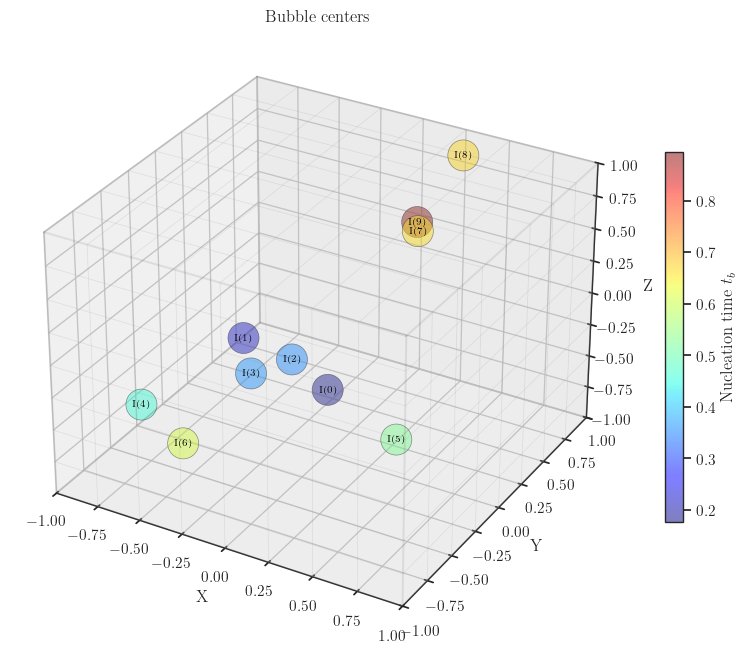
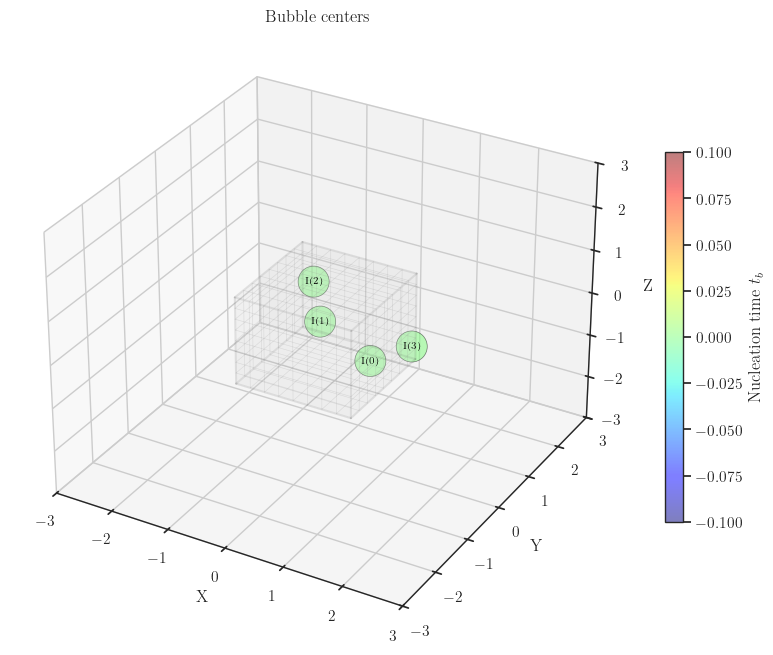
docs: update lattice_bubbles

diff --git a/docs/examples/lattice_bubbles.py b/docs/examples/lattice_bubbles.py
@@ -704,18 +704,10 @@ class LatticeBubblesVisualizer:
 
 
 # %%
-# Load bubbles from file, and only take the first 10 bubbles for visualization purpose
-bubbles_interior = bubbles_interior[:10]
-
 L = 2.0
-nucleation_strategy = many_bubbles.FixedNucleationRate(
-    beta=1,
-    gamma0=1,
-    t0=0.0,
-    d_p0=0.01,
+nucleation_strategy = many_bubbles.SpontaneousNucleation(
+    n_bubbles=4,
     seed=0,
-    # Method to compute lattice volume that is outside of all bubbles. "approximation" means that volume_remaining = volume_lattice - sum_n(volume_bubble_n)
-    method="approximation",
 )
 lattice_bubbles_cartesian = nucleation_strategy.nucleate(
     lattice=many_bubbles.CartesianLattice(
@@ -724,9 +716,6 @@ lattice_bubbles_cartesian = nucleation_strategy.nucleate(
     ),
     boundary_condition="periodic",
 )
-
-# %%
-lattice_bubbles_cartesian.bubbles_interior.shape
 
 # %%
 # Assuming you have a lattice_bubbles object
@@ -752,6 +741,9 @@ visualizer_cartesian.plot_bubbles_centers(
 visualizer_cartesian.plot_lattice(
     fig, ax, skeleton_alpha=0.1, fill_alpha=0.1, show_grid=True
 )
+ax.set_xlim(-1.5 * L, 1.5 * L)
+ax.set_ylim(-1.5 * L, 1.5 * L)
+ax.set_zlim(-1.5 * L, 1.5 * L)
 fig.savefig(
     f"./figures/many_bubbles/many_bubbles_centers_cartesian.png",
     bbox_inches="tight",
@@ -776,9 +768,9 @@ visualizer_cartesian.plot_bubbles_centers(
     linewidths=0.5,
 )
 visualizer_cartesian.plot_lattice(
-    fig, ax, skeleton_alpha=0.1, fill_alpha=0.1, show_grid=True
+    fig, ax, skeleton_alpha=0.2, fill_alpha=0.1, show_grid=True
 )
-visualizer_cartesian.plot_bubbles(fig, ax, t=0.7, show_bubbles_exterior=True, alpha=0.4)
+visualizer_cartesian.plot_bubbles(fig, ax, t=0.4, show_bubbles_exterior=True, alpha=0.4)
 ax.set_xlim(-1.5 * L, 1.5 * L)
 ax.set_ylim(-1.5 * L, 1.5 * L)
 ax.set_zlim(-1.5 * L, 1.5 * L)
